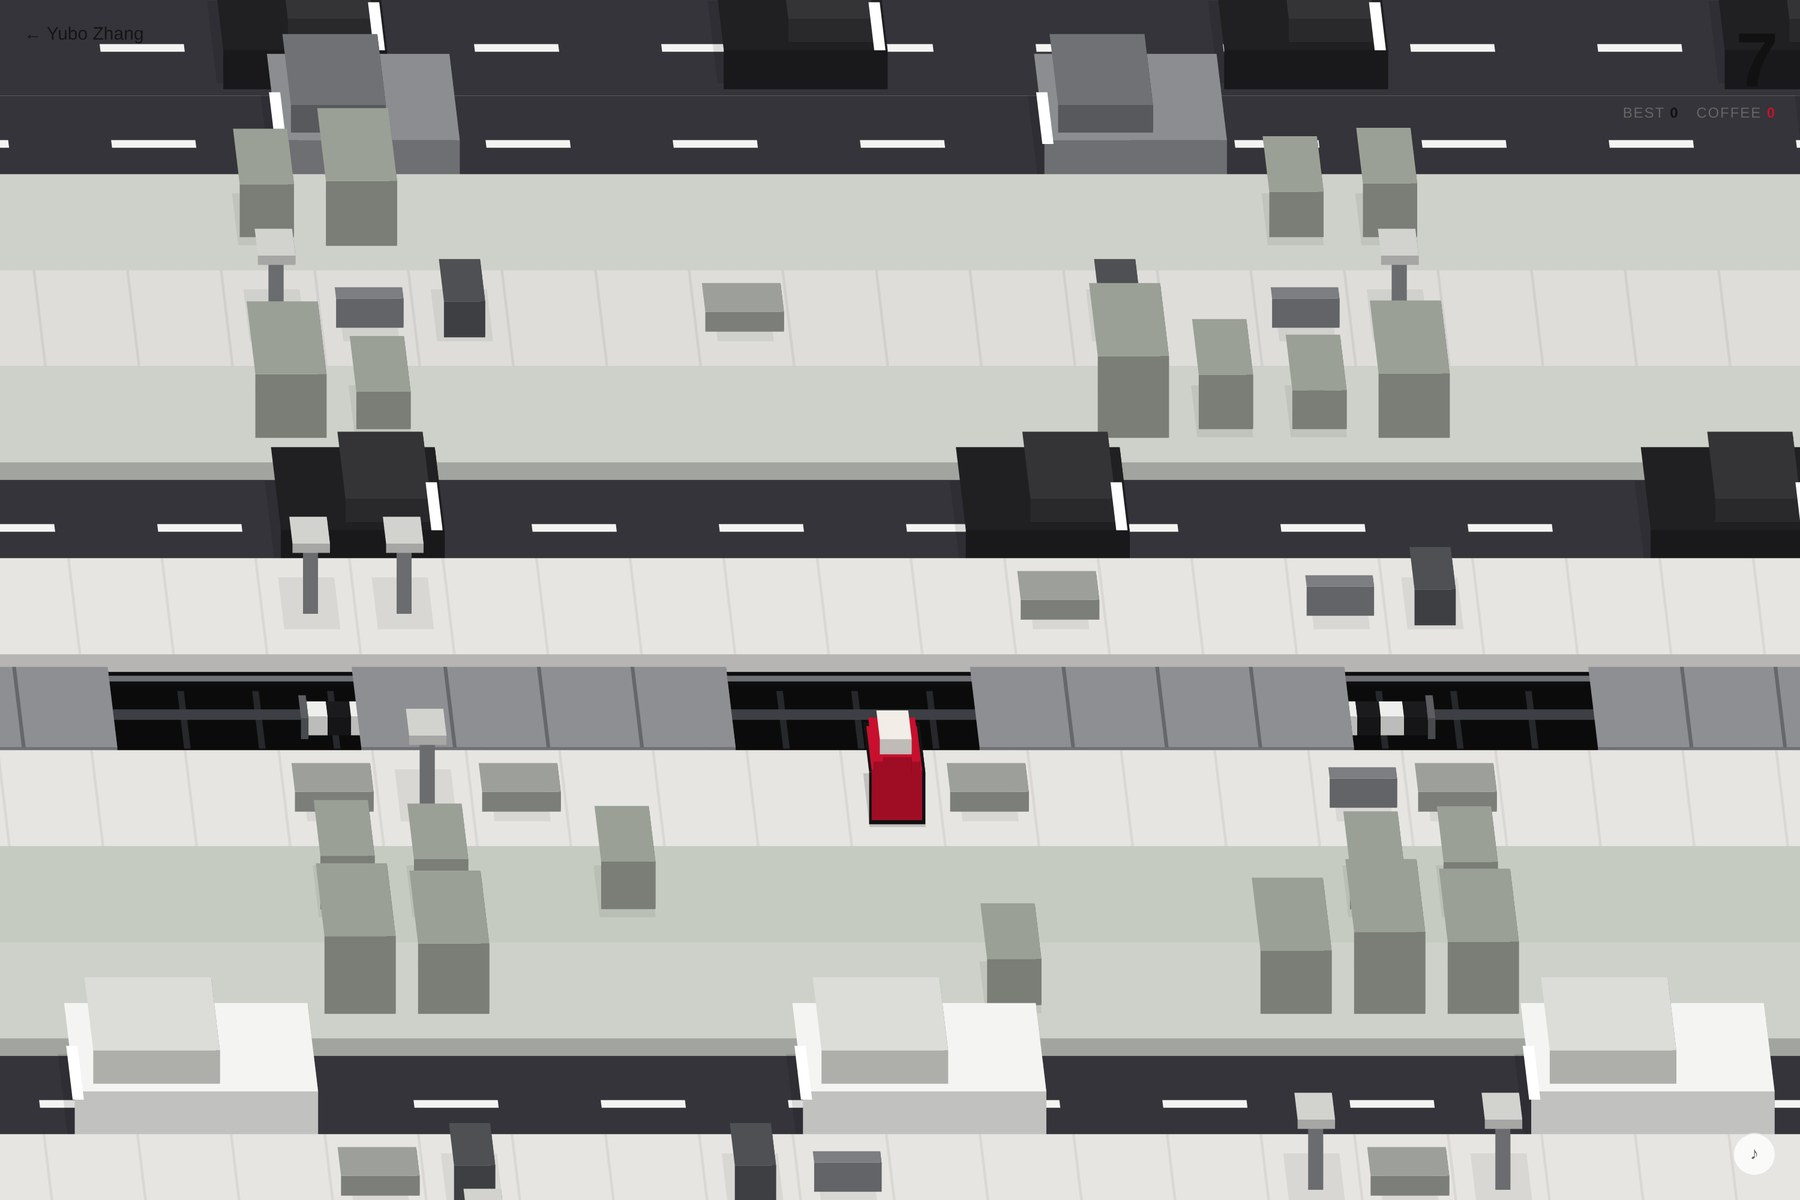
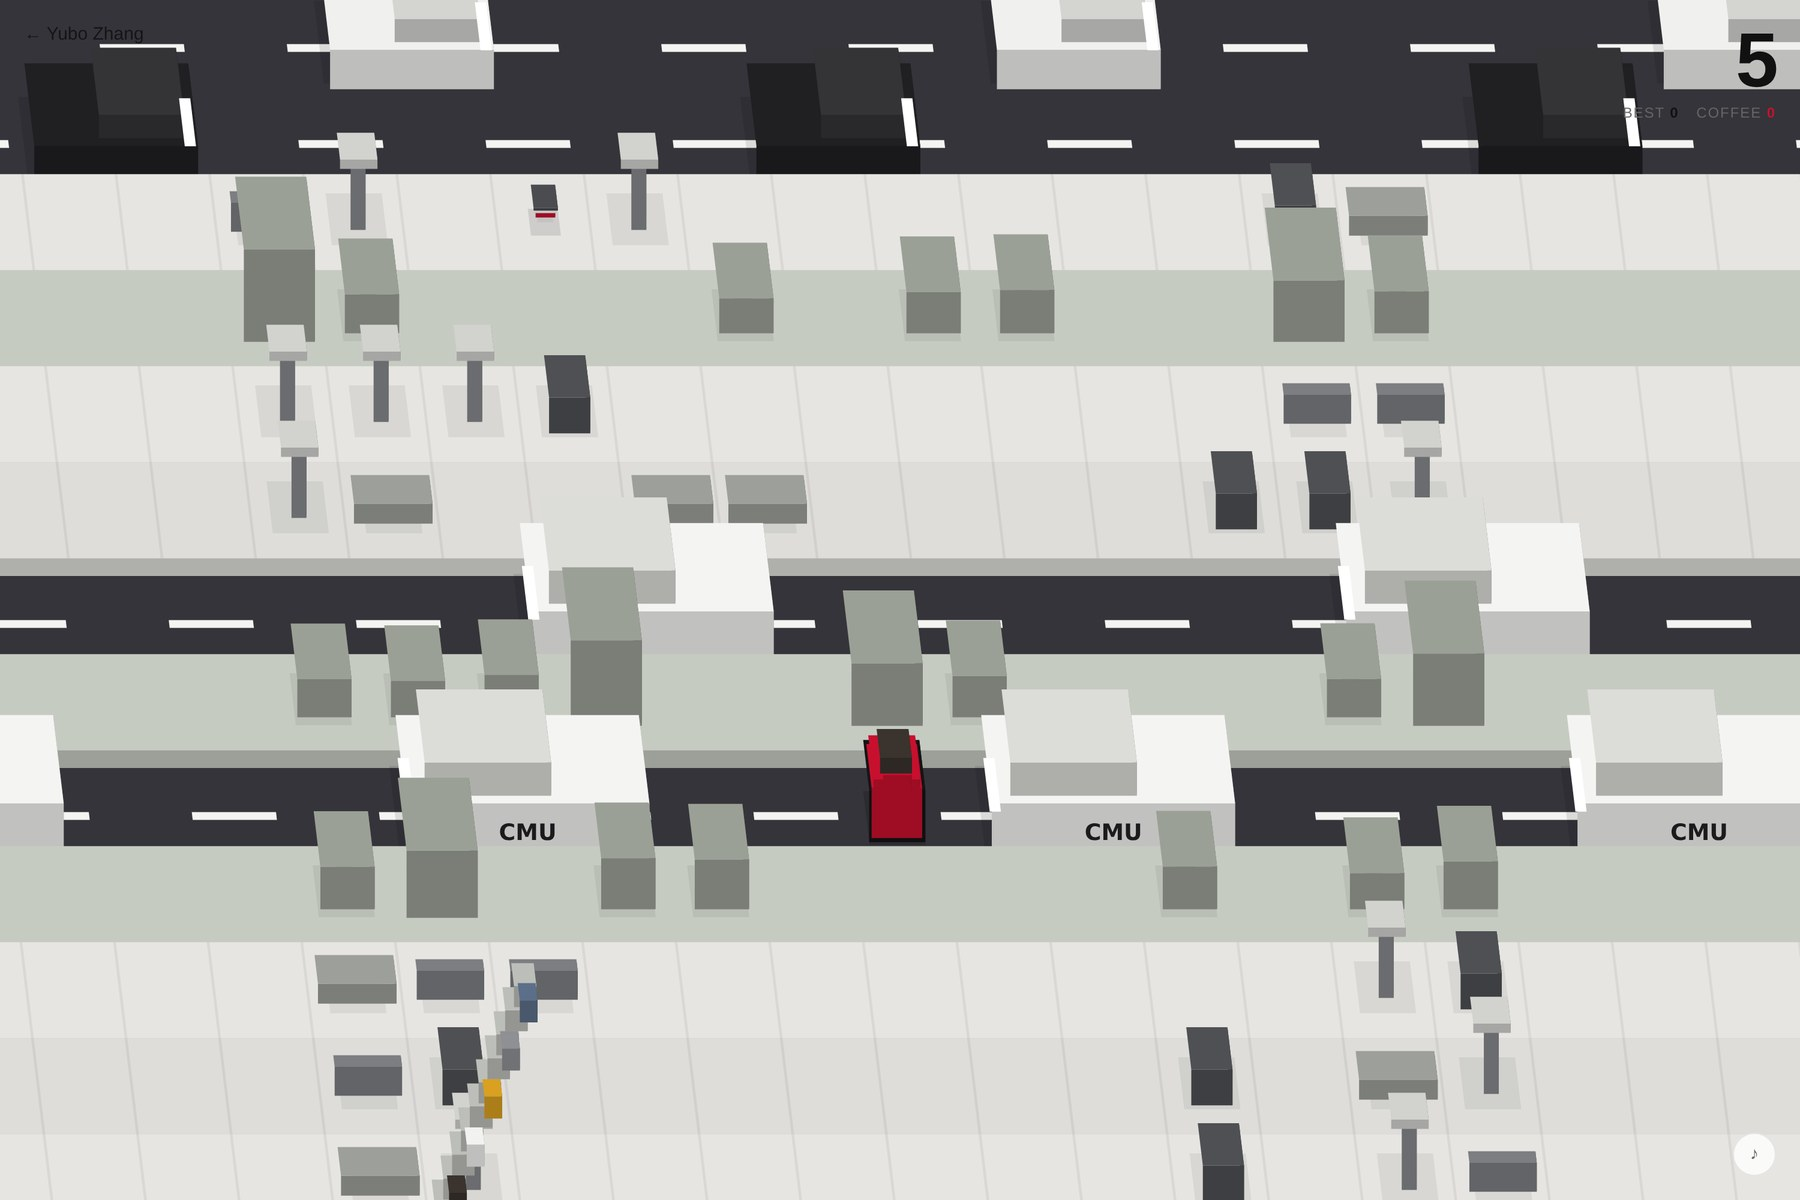
Forbes Crossing: a face that reads, CMU traffic, Walking to the Sky
- the head is now two blocks, dark hair and a light face, with the face
  offset toward the direction of travel; a marker on a side face was
  invisible when walking left, because this projection never shows that face
- construction machinery in safety yellow, orange cones along the plate edges
- vehicles lettered TARTANS / SCOTTY / PLAID / BUGGY / FENCE, drawn on the
  one face this projection keeps horizontal; occasional CMU Police lanes
  with a flashing red-and-blue bar
- Walking to the Sky stands to the left of the starting row

Claude-Session: https://claude.ai/code/session_01NvXrAsYKBNA2UPT3z1onvA

diff --git a/forbes-crossing/game.js b/forbes-crossing/game.js
@@ -145,10 +145,25 @@ const C = {
   trench:  '#0e0e10',   // 施工沟：几乎全黑
   plate:   '#8d8f93',
   mark:    '#f4f4f2',
-  accent:  '#c8102e',   // 只给三样东西：帽衫、61C、咖啡隔热套
+  accent:  '#c8102e',   // CMU 红：帽衫、61C、警灯、咖啡隔热套
+  rig:     '#d9a021',   // 工程黄：只给挖掘机和运土车
+  rigDark: '#b3831a',
+  cone:    '#e0712a',   // 锥筒橙
+  navy:    '#2f4374',   // 警灯的另一半，全场只有这么几像素
   dark:    '#141416',
-  skin:    '#f2ede7',
+  hair:    '#3a332e',   // 后脑勺
+  skin:    '#f6e3cf',   // 脸。和头发拉开两档，转身才看得出来
 };
+
+// 车身上的字。都是 CMU 的梗 —— 苏格兰格纹、吉祥物 Scotty、Buggy 比赛。
+const LABELS = ['TARTANS', 'SCOTTY', 'PLAID', 'CMU', 'BUGGY', 'FENCE'];
+
+// 给定底色，返回压在上面还读得清的字色。
+function inkOn(hex) {
+  const n = parseInt(hex.slice(1), 16);
+  const lum = 0.299 * ((n >> 16) & 255) + 0.587 * ((n >> 8) & 255) + 0.114 * (n & 255);
+  return lum > 140 ? '#1b1b1d' : '#f4f4f2';
+}
 
 // 车。w/d 单位是格，h 单位是 UNIT。
 const VEHICLES = [
@@ -157,8 +172,10 @@ const VEHICLES = [
   { w: 1.95, d: 0.90, h: 0.95, body: '#8b8d91', roof: '#6f7175' },
   { w: 2.60, d: 0.92, h: 1.15, body: '#f4f4f2', roof: '#dcdcd9', truck: true },
 ];
-// 61C —— 唯一用强调色的车，也是唯一会在专用道上冲过来的东西。
-const BUS = { w: 3.6, d: 0.95, h: 1.25, body: C.accent, roof: '#9c0d24', bus: true };
+// 61C —— 唯一会在专用道上冲过来的东西。
+const BUS = { w: 3.6, d: 0.95, h: 1.25, body: C.accent, roof: '#9c0d24', bus: true, label: '61C' };
+// 校警车。白车 + 车顶警灯，警灯两块交替亮，是全场唯一出现蓝色的地方。
+const POLICE = { w: 2.0, d: 0.9, h: 0.95, body: '#f6f6f4', roof: '#e0e0dc', police: true, label: 'CMU POLICE' };
 
 
 /* ④ 世界生成 ------------------------------------------------ */
@@ -184,6 +201,8 @@ function makeLane(row) {
     // 开局正前方一定是通的。否则第一下就撞墙，玩家会以为游戏坏了。
     lane.blocked.delete(0);
     lane.obstacles = lane.obstacles.filter(o => o.col !== 0);
+    // 第 0 行左边留给 Walking to the Sky，把那边的树清掉，别叠在一起。
+    if (row === 0) lane.obstacles = lane.obstacles.filter(o => o.col > MINC - 1);
     return lane;
   }
 
@@ -269,7 +288,10 @@ function makeProp(col, kind) {
 function roadLane(row, d) {
   const dir = Math.random() < 0.5 ? 1 : -1;
   const speed = rand(2.0, 3.8) * (1 + 0.55 * d);
-  const kind = pick(VEHICLES);
+  // 一条道上跑同一种车。12% 的概率整条道是校警车。
+  const kind = Math.random() < 0.12 ? POLICE : pick(VEHICLES);
+  // 车身上刷字：车够宽才刷，太窄的车字会挤成一团。
+  const label = kind.label || (kind.w >= 1.9 && Math.random() < 0.55 ? pick(LABELS) : null);
   const gap = rand(3.4, 7.0) - 1.6 * d;
   const period = kind.w + Math.max(1.8, gap);
   // 循环长度取 period 的整数倍，否则绕回来的时候间距会突然变。
@@ -281,7 +303,7 @@ function roadLane(row, d) {
   for (let i = 0; i < count; i++) {
     entities.push({ x: LANE_L + offset + i * period, kind });
   }
-  return { type: 'road', row, base: 0, color: C.road, dir, speed, span, entities, obstacles: [], blocked: new Set(), coffee: null };
+  return { type: 'road', row, base: 0, color: C.road, dir, speed, span, entities, label, obstacles: [], blocked: new Set(), coffee: null };
 }
 
 /* 施工沟：CMU 版的"过河"。钢板就是原木，踩不上去就掉下去。 */
@@ -307,6 +329,13 @@ function trenchLane(row, d) {
         off: Math.random() < 0.5 ? 0 : len - 2,   // 靠一端停，至少留一格能站
         face: Math.random() < 0.5 ? -1 : 1,
       };
+    }
+    // 锥筒摆在板子的两条长边上，不占中间那条能站人的线，纯装饰。
+    e.cones = [];
+    for (let k = 0; k < len; k++) {
+      if (Math.random() < 0.32) {
+        e.cones.push({ o: k + rand(0.3, 0.7), s: Math.random() < 0.5 ? 0.15 : 0.85 });
+      }
     }
     entities.push(e);
   }
@@ -612,11 +641,15 @@ function drawLane(lane) {
 
   for (const o of lane.obstacles) drawProp(o, r, lane.base);
 
+  // 起点那一行的左边立着 Walking to the Sky。开局第一眼就看得到，
+  // 走远之后自然滚出画面 —— 它是地标，不是背景板。
+  if (r === 0) drawSculpture(r);
+
   if (lane.type === 'road') {
     // 屏幕外的车不用画。一条道 12 辆车，画一半就够，省一半的多边形。
     for (const e of lane.entities) {
       if (e.x > EDGE + 1 || e.x + e.kind.w < -EDGE - 1) continue;
-      drawVehicle(e.x, r, e.kind, lane.dir);
+      drawVehicle(e.x, r, e.kind, lane.dir, lane.label);
     }
   } else if (lane.type === 'trench') {
     for (const e of lane.entities) {
@@ -624,7 +657,7 @@ function drawLane(lane) {
       drawPlate(e, r);
     }
   } else if (lane.type === 'busway' && lane.running) {
-    drawVehicle(lane.x, r, BUS, lane.dir);
+    drawVehicle(lane.x, r, BUS, lane.dir, BUS.label);
   }
 }
 
@@ -639,7 +672,7 @@ function drawWarning(lane) {
   }
 }
 
-function drawVehicle(x, row, kind, dir) {
+function drawVehicle(x, row, kind, dir, label) {
   const y = row + (1 - kind.d) / 2;
   const bodyH = UNIT * kind.h * 0.85;
   tile(x - 0.06, y + 0.06, kind.w, kind.d, 'rgba(0,0,0,0.10)');   // 影子
@@ -647,10 +680,37 @@ function drawVehicle(x, row, kind, dir) {
   // 车顶/车厢，往车尾方向缩一点，看着才有头有尾。
   const roofW = kind.bus ? kind.w * 0.86 : kind.w * 0.52;
   const roofX = dir > 0 ? x + kind.w - roofW - kind.w * 0.08 : x + kind.w * 0.08;
-  box(roofX, y + 0.08, roofW, kind.d - 0.16, UNIT * kind.h * 0.5, kind.roof, bodyH);
+  const roofH = UNIT * kind.h * 0.5;
+  box(roofX, y + 0.08, roofW, kind.d - 0.16, roofH, kind.roof, bodyH);
   // 车头灯：一小块白，顺便告诉你车往哪开。
   const lx = dir > 0 ? x + kind.w - 0.12 : x;
   tile(lx, y + 0.18, 0.12, kind.d - 0.36, '#ffffff', bodyH * 0.55);
+
+  if (kind.police) {
+    // 警灯：红蓝两块交替亮。亮的那块画满高度，暗的那块压扁，
+    // 不用改颜色就有闪的效果。
+    const on = Math.floor(performance.now() / 260) % 2 === 0;
+    const bar = roofX + roofW * 0.16;
+    box(bar, y + kind.d * 0.32, roofW * 0.3, kind.d * 0.3,
+        UNIT * (on ? 0.16 : 0.07), C.accent, bodyH + roofH);
+    box(bar + roofW * 0.36, y + kind.d * 0.32, roofW * 0.3, kind.d * 0.3,
+        UNIT * (on ? 0.07 : 0.16), C.navy, bodyH + roofH);
+  }
+
+  // 车身上的字。画在车的正面 —— 这个投影里正面的上下缘是水平的，
+  // 所以直接用 fillText 就行，不需要任何变换。
+  if (label) {
+    const A = P(x, y), B = P(x + kind.w, y);
+    const wpx = B.x - A.x;
+    let fs = Math.max(6, bodyH * 0.4);
+    ctx.font = `600 ${fs}px Inter, system-ui, sans-serif`;
+    const over = ctx.measureText(label).width / (wpx * 0.78);
+    if (over > 1) { fs = Math.max(5, fs / over); ctx.font = `600 ${fs}px Inter, system-ui, sans-serif`; }
+    ctx.textAlign = 'center';
+    ctx.textBaseline = 'middle';
+    ctx.fillStyle = inkOn(kind.body);
+    ctx.fillText(label, (A.x + B.x) / 2, A.y - bodyH * 0.46);
+  }
 }
 
 function drawPlate(e, row) {
@@ -660,6 +720,52 @@ function drawPlate(e, row) {
     tile(e.x + i - 0.02, row + 0.08, 0.04, 0.84, shade(C.plate, 0.72), UNIT * 0.22);
   }
   if (e.rig) drawRig(e.rig, e.x + e.rig.off, row, UNIT * 0.22);
+  if (e.cones) for (const c of e.cones) drawCone(e.x + c.o, row + c.s, UNIT * 0.22);
+}
+
+/*
+  Walking to the Sky —— 起点左边那根斜柱子。
+  斜杆同样是一串小盒子沿折线摆出来的（和挖掘机的动臂是同一个办法）：
+  每往上一段就往右挪一点，攒出一根倾斜的柱子。
+  柱子上和地面上的小人用几种不同颜色的长方体，是全场唯一放开用色的地方。
+*/
+const SKY_FIG = ['#c8102e', '#3a332e', '#f2f2f0', '#d9a021', '#8e9094', '#5c6f8a'];
+
+function drawSculpture(row) {
+  const bx = -5.2;                  // 活动范围之外的左边
+  const by = row + 0.55;
+  const N = 13;
+  const RISE = UNIT * 0.34;         // 每段升高
+  const RUN = 0.10;                 // 每段右移 —— 这两个数的比值就是倾角
+
+  tile(bx - 0.9, by - 0.75, 1.8, 1.5, 'rgba(0,0,0,0.10)');
+  box(bx - 0.75, by - 0.6, 1.5, 1.2, UNIT * 0.12, '#d6d6d2');       // 基座
+
+  // 地面上仰头看的几个人
+  const ground = [[-0.45, -0.32], [-0.24, 0.28], [0.34, -0.12]];
+  ground.forEach(([ox, oy], i) => {
+    box(bx + ox - 0.07, by + oy - 0.06, 0.14, 0.12, UNIT * 0.3,
+        SKY_FIG[(i + 2) % SKY_FIG.length], UNIT * 0.12);
+  });
+
+  // 柱子。一段一段往上摞，每段顺带右移 —— 就是一根斜柱。
+  for (let i = 0; i < N; i++) {
+    box(bx - 0.12 + i * RUN, by - 0.12 + i * RUN * 0.45, 0.24, 0.24,
+        RISE + 1, '#bcbeb9', UNIT * 0.12 + i * RISE);
+  }
+  // 柱子上往上走的人，隔一段一个
+  for (let i = 1; i < N; i += 2) {
+    box(bx + i * RUN + 0.04, by + i * RUN * 0.45 - 0.09, 0.19, 0.18, UNIT * 0.38,
+        SKY_FIG[((i - 1) / 2) % SKY_FIG.length], UNIT * 0.12 + i * RISE + RISE * 0.3);
+  }
+}
+
+// 锥筒。四段越往上越细的盒子 —— 这套画法里没有斜面，收口只能靠一层层缩。
+function drawCone(cx, cy, base) {
+  box(cx - 0.075, cy - 0.075, 0.15, 0.15, UNIT * 0.04, C.dark, base);
+  box(cx - 0.055, cy - 0.055, 0.11, 0.11, UNIT * 0.09, C.cone, base + UNIT * 0.04);
+  box(cx - 0.042, cy - 0.042, 0.084, 0.084, UNIT * 0.05, '#f2f2f0', base + UNIT * 0.13);
+  box(cx - 0.028, cy - 0.028, 0.056, 0.056, UNIT * 0.09, C.cone, base + UNIT * 0.18);
 }
 
 // 工地围挡。四块黑白相间的小盒子拼成一段，斜纹在纯黑白里也读得出"施工"，
@@ -695,23 +801,27 @@ function drawRig(rig, x0, row, base) {
   const cy = row + 0.5;
   const f = rig.face;   // 车头朝向：+1 右，-1 左
 
+  // 机身用工程黄。之前全是灰的，和钢板、路面混在一起，
+  // 完全看不出是机械 —— 一个不属于这套黑白灰的颜色反而是最省事的解法。
   if (rig.kind === 'excavator') {
-    bc(cx, cy, 1.5, 0.7, UNIT * 0.20, '#2c2e33', base);                          // 履带
-    bc(cx - f * 0.28, cy, 0.92, 0.6, UNIT * 0.6, '#d2d4cf', base + UNIT * 0.20); // 回转平台 + 驾驶室
-    bc(cx - f * 0.62, cy, 0.3, 0.46, UNIT * 0.34, '#4e5054', base + UNIT * 0.20); // 后配重
+    bc(cx, cy, 1.5, 0.7, UNIT * 0.20, '#2c2e33', base);                            // 履带
+    bc(cx - f * 0.28, cy, 0.92, 0.6, UNIT * 0.6, C.rig, base + UNIT * 0.20);       // 回转平台
+    bc(cx - f * 0.06, cy - 0.04, 0.4, 0.42, UNIT * 0.3, '#2f3338', base + UNIT * 0.5); // 驾驶室玻璃
+    bc(cx - f * 0.62, cy, 0.3, 0.46, UNIT * 0.34, C.rigDark, base + UNIT * 0.20);  // 后配重
 
     // 动臂：三段盒子沿"上去再下来"的折线摆，假装成一根斜的臂。
     // 整套渲染里没有旋转，画不出真正的斜杆 —— 折线是唯一的办法。
     const arm = [[0.34, 0.58, 0.52], [0.66, 0.86, 0.36], [0.90, 0.36, 0.54]];
     for (const [off, up, h] of arm) {
-      bc(cx + f * off, cy, 0.26, 0.24, UNIT * h, '#7e807a', base + UNIT * up);
+      bc(cx + f * off, cy, 0.26, 0.24, UNIT * h, C.rig, base + UNIT * up);
     }
-    bc(cx + f * 0.95, cy, 0.4, 0.34, UNIT * 0.26, '#3a3c40', base);              // 铲斗
+    bc(cx + f * 0.95, cy, 0.4, 0.34, UNIT * 0.26, '#3a3c40', base);                // 铲斗
   } else {
-    bc(cx, cy + 0.26, 1.9, 0.18, UNIT * 0.18, '#1d1f22', base);                  // 轮子
-    bc(cx, cy, 1.95, 0.6, UNIT * 0.2, '#43454a', base + UNIT * 0.14);            // 底盘
-    bc(cx + f * 0.66, cy, 0.62, 0.52, UNIT * 0.58, '#e2e2de', base + UNIT * 0.34); // 驾驶室
-    bc(cx - f * 0.38, cy, 1.1, 0.58, UNIT * 0.7, '#33353a', base + UNIT * 0.34);   // 车斗
+    bc(cx, cy + 0.26, 1.9, 0.18, UNIT * 0.18, '#1d1f22', base);                    // 轮子
+    bc(cx, cy, 1.95, 0.6, UNIT * 0.2, '#43454a', base + UNIT * 0.14);              // 底盘
+    bc(cx + f * 0.66, cy, 0.62, 0.52, UNIT * 0.58, C.rig, base + UNIT * 0.34);     // 驾驶室
+    bc(cx + f * 0.66, cy - f * 0.02, 0.44, 0.4, UNIT * 0.16, '#2f3338', base + UNIT * 0.78); // 玻璃
+    bc(cx - f * 0.38, cy, 1.1, 0.58, UNIT * 0.7, C.rigDark, base + UNIT * 0.34);   // 车斗
     bc(cx - f * 0.38, cy, 0.9, 0.44, UNIT * 0.16, '#8e8f88', base + UNIT * 1.04);  // 斗里的土
   }
 }
@@ -785,24 +895,31 @@ function drawBody(col, row, y, h, f, scale = 1) {
   box(col - (hw * 0.9) / 2 - fx * 0.14, row + 0.5 - (hd * 0.9) / 2 - fy * 0.14,
       hw * 0.9, hd * 0.9, UNIT * 0.3 * scale, C.accent, y + h);               // 背后的帽子
 
-  box(col - hw / 2 + fx * 0.02, row + 0.5 - hd / 2 + fy * 0.02,
-      hw, hd, UNIT * 0.26 * scale, C.skin, y + h + UNIT * 0.11 * scale);      // 头
+  // 头分两块：后脑勺（深色头发）+ 脸（浅色）。
+  // 这是这个人物最关键的一处：
+  // 这个投影只看得到顶面、正面和右侧面 —— 左侧面根本不出现，
+  // 所以任何"贴在侧面"的记号往左走时都会消失。
+  // 把脸做成一整块和头发差两档明度、并且往朝向方向探出去一点的盒子之后，
+  // 它在顶面上就是一块明显偏在某一侧的浅色，四个方向都读得出来。
+  const headY = y + h + UNIT * 0.12 * scale;
+  const headH = UNIT * 0.27 * scale;
+  box(col - hw / 2, row + 0.5 - hd / 2, hw, hd, headH, C.hair, headY);
 
   if (f !== 0) {
-    // 眼睛：贴在朝向的那一面。
-    const ey = y + h + UNIT * 0.21 * scale;
-    if (fx === 0) box(col - hw * 0.34, row + 0.5 + fy * (hd / 2) - 0.02, hw * 0.68, 0.04, UNIT * 0.06 * scale, C.dark, ey);
-    else          box(col + fx * (hw / 2) - 0.02, row + 0.5 - hd * 0.34, 0.04, hd * 0.68, UNIT * 0.06 * scale, C.dark, ey);
+    const fw = (fx === 0 ? hw * 0.86 : hw * 0.5);
+    const fd = (fx === 0 ? hd * 0.5 : hd * 0.86);
+    const fcx = col + fx * (hw / 2 - fw / 2 + 0.06);
+    const fcy = row + 0.5 + fy * (hd / 2 - fd / 2 + 0.06);
+    box(fcx - fw / 2, fcy - fd / 2, fw, fd, headH * 0.9, C.skin, headY);       // 脸
 
-    // 帽檐：朝朝向的方向探出一小块。
-    // 这个投影只看得到顶面、正面和右侧面 —— 左侧面根本不出现，
-    // 所以只靠贴在侧面的眼睛，往左走时完全看不出人转过去了。
-    // 探出来的这一块会改变顶面的轮廓，四个方向都读得出来。
-    const bw2 = fx === 0 ? 0.24 * scale : 0.11 * scale;
-    const bd2 = fx === 0 ? 0.11 * scale : 0.24 * scale;
-    box(col + fx * (hw / 2 + 0.055) - bw2 / 2,
-        row + 0.5 + fy * (hd / 2 + 0.055) - bd2 / 2,
-        bw2, bd2, UNIT * 0.11 * scale, C.accent, y + h + UNIT * 0.17 * scale);
+    // 两只眼睛压在脸的顶面上，靠外侧。从上面看得到，从正面也看得到。
+    const eTop = headY + headH * 0.9 - UNIT * 0.015 * scale;
+    const e = 0.05 * scale, gap = 0.085 * scale;
+    for (const sgn of [-1, 1]) {
+      const ex = fx === 0 ? fcx + sgn * gap : fcx + fx * (fw / 2 - e * 0.7);
+      const ey = fx === 0 ? fcy + fy * (fd / 2 - e * 0.7) : fcy + sgn * gap;
+      box(ex - e / 2, ey - e / 2, e, e, UNIT * 0.045 * scale, C.dark, eTop);
+    }
   }
 }
 

diff --git a/forbes-crossing/README.md b/forbes-crossing/README.md
@@ -57,6 +57,19 @@ between steel plates get wider, and the bus lane shows up more often. The
 first 8 rows never contain a trench or a bus lane, so there is time to learn
 the basic rule first.
 
+## Things to look for
+
+- **Walking to the Sky** stands to the left of the starting row — the leaning
+  pole with figures climbing it. It scrolls out of frame once you get going.
+- Traffic is CMU traffic: vans and trucks lettered TARTANS, SCOTTY, PLAID,
+  BUGGY, FENCE, and every so often a whole lane of **CMU Police** cars with a
+  red-and-blue bar flashing on the roof.
+- The **61C** is the only thing on the bus lane, and the only vehicle that
+  warns you before it arrives.
+- Everything on the construction lanes is safety yellow and orange: excavators
+  and dump trucks riding the steel plates, traffic cones along the plate edges,
+  black-and-white barriers at the sides of the pit.
+
 ## Built with
 
 - **Claude Opus 5** (`claude-opus-5`), used through the **Claude desktop app
@@ -102,5 +115,8 @@ endless without ever holding more than a screenful of state.
   built from translation and scaling only, for the same reason.
 - Colour only; no high-contrast mode. The game is fully keyboard-driven but
   is not usable with a screen reader.
+- The lettering on the vehicles is drawn on their front faces only, because
+  that is the one face this projection keeps horizontal. On a narrow phone the
+  longer words shrink until they are hard to read.
 - The squirrel is a rule, not an animation. You get a shadow and a game-over
   line, not an actual squirrel.
